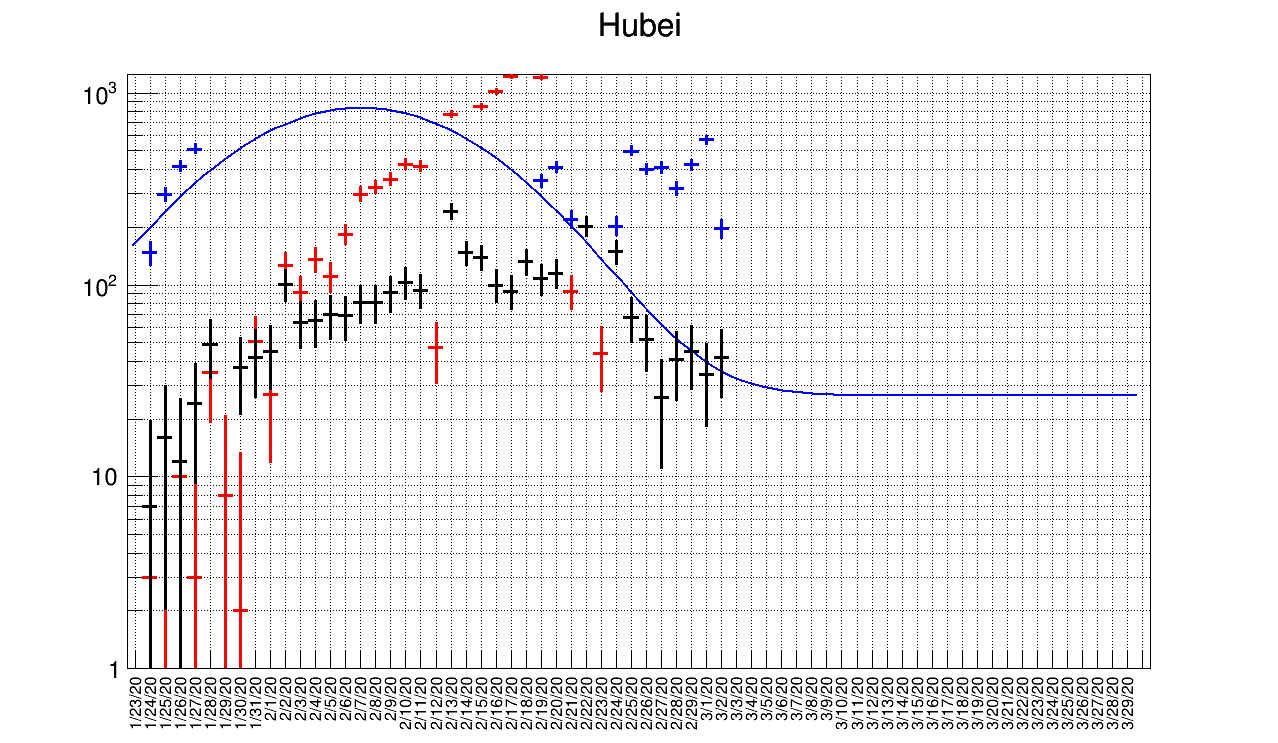
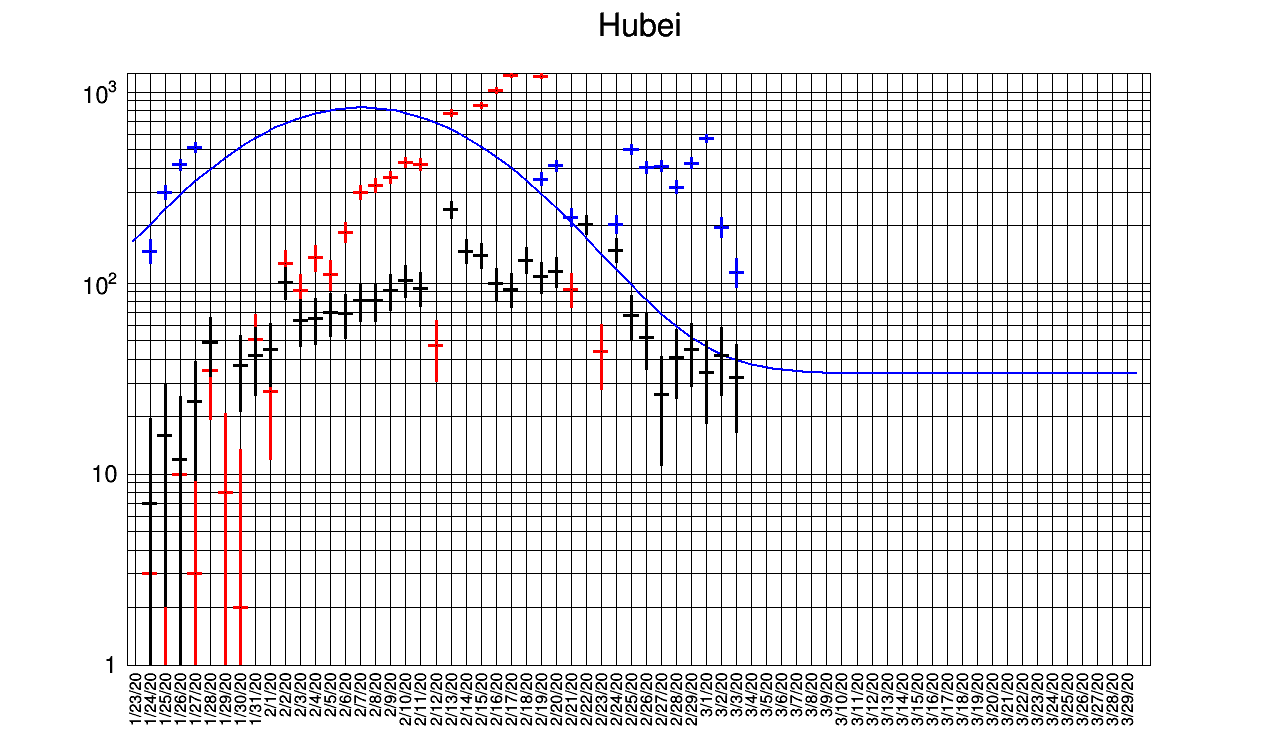
Update 4 Mar data

diff --git a/script.py b/script.py
@@ -234,7 +234,7 @@ prediction = {}
 #for place in ["Italy"]:
 for place in selection:
     prediction[place] = {}
-    for predictionDate in range(lastDate,lastDate+29):
+    for predictionDate in range(lastDate,lastDate+28):
         val = confirmes_h[place].GetBinContent(confirmes_h[place].FindBin(lastDate))
         integr = fitdiffs[place].Integral(lastDate + 0.5, predictionDate + 0.5)
         interr = fitdiffs[place].IntegralError(lastDate + 0.5, predictionDate + 0.5, fitdiffs_res[place].GetParams(), fitdiffs_res[place].GetCovarianceMatrix().GetMatrixArray())
